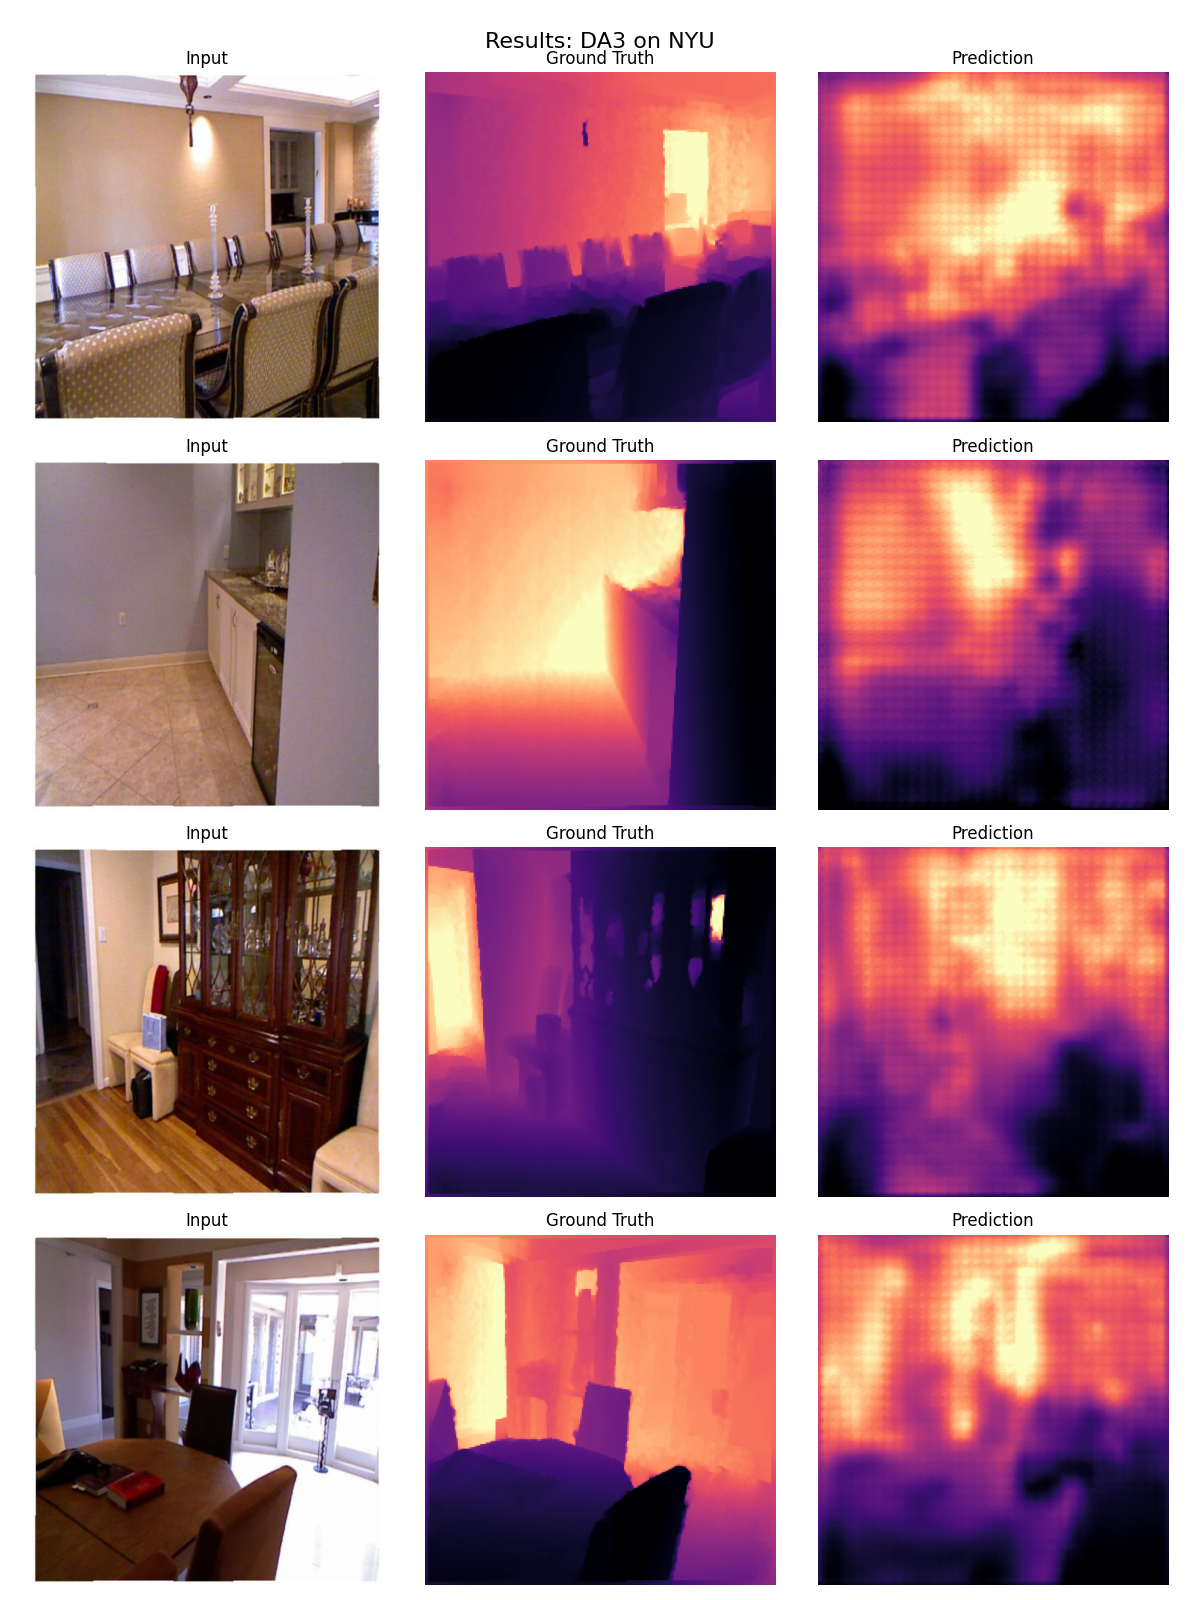
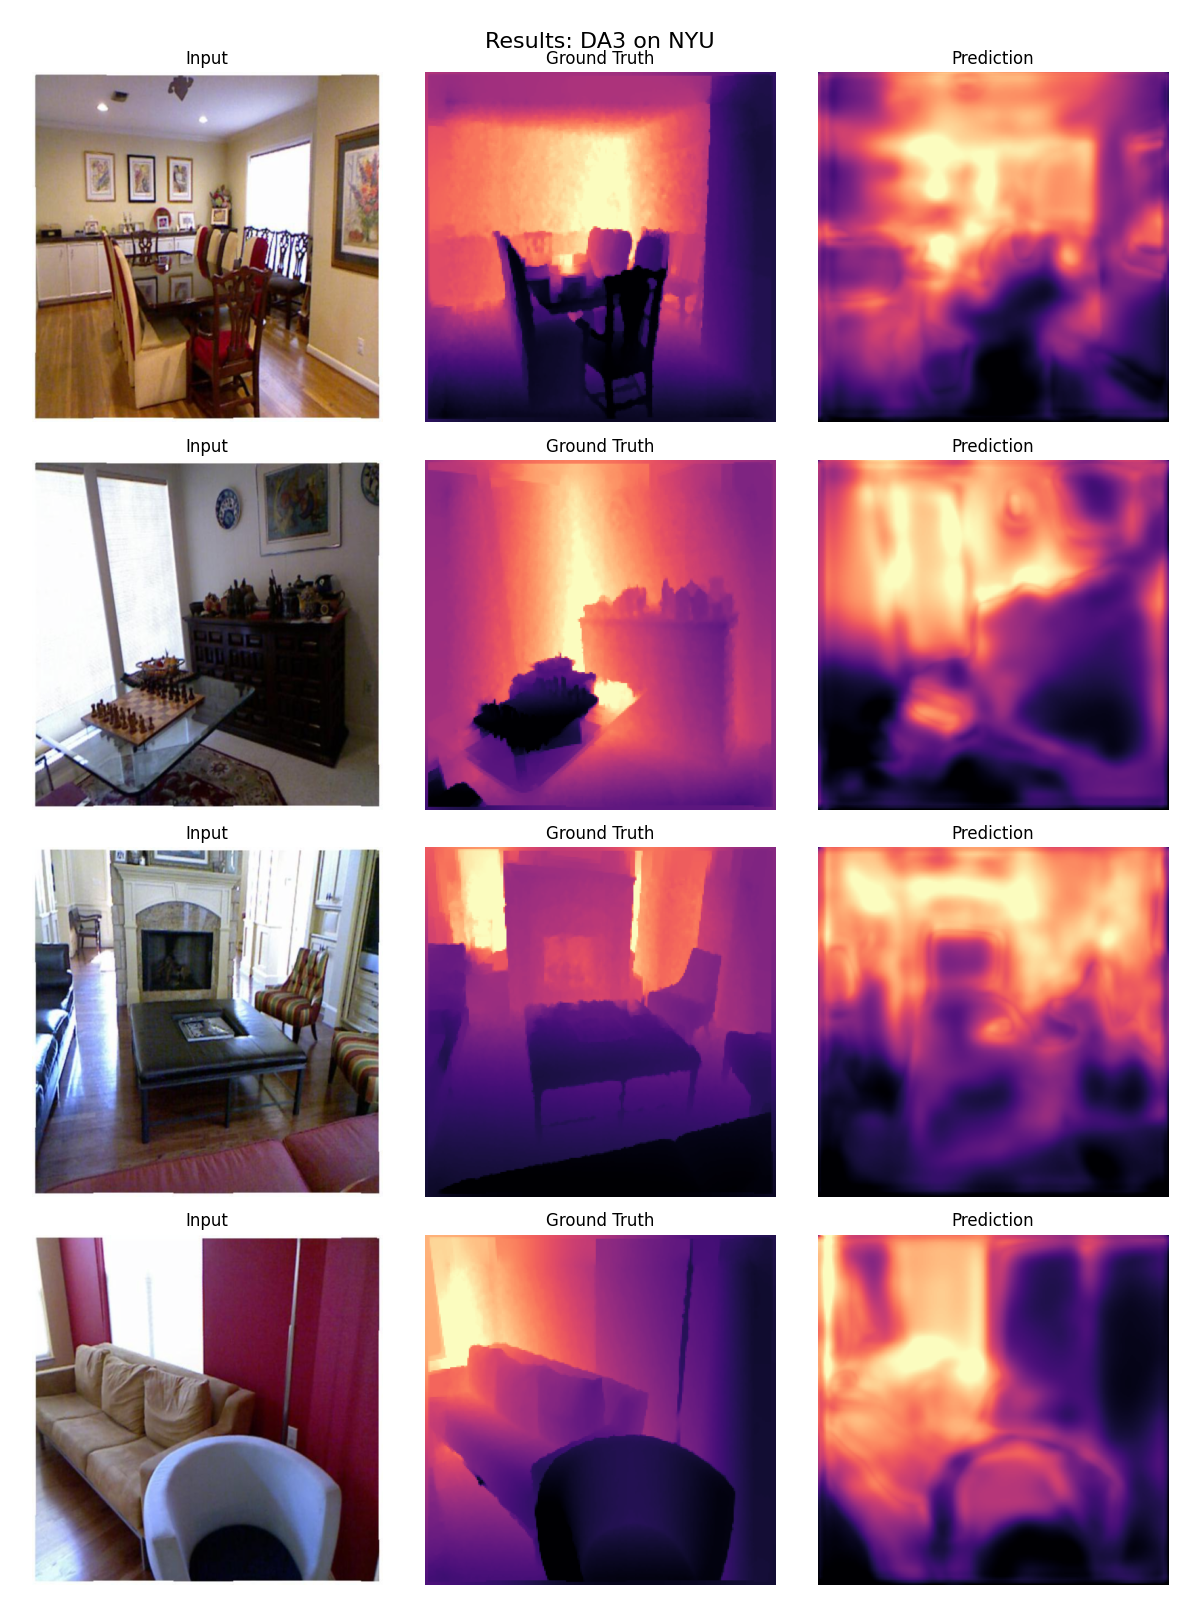
experiment

diff --git a/train_phase3.py b/train_phase3.py
@@ -5,6 +5,10 @@ from torchvision import transforms
 import torch.nn.functional as F
 import os
 import argparse
+import sys
+
+# Ensure we can find the modules
+sys.path.append(os.getcwd())
 
 from dataset_universal import UniversalDepthDataset
 from da3_adapter import DINOv3_DA3_Hybrid
@@ -12,7 +16,7 @@ from da3_adapter import DINOv3_DA3_Hybrid
 # --- Args ---
 parser = argparse.ArgumentParser()
 parser.add_argument('--dataset', type=str, required=True, choices=['nyu', 'eth3d'])
-parser.add_argument('--epochs', type=int, default=10)
+parser.add_argument('--epochs', type=int, default=30) # Default updated to 30
 parser.add_argument('--batch_size', type=int, default=4)
 parser.add_argument('--lr', type=float, default=5e-5)
 args = parser.parse_args()
@@ -22,9 +26,9 @@ SAVE_DIR = f'checkpoints_phase3_{args.dataset}'
 os.makedirs(SAVE_DIR, exist_ok=True)
 
 print(f"--- Starting Phase 3 (Hybrid) on {args.dataset.upper()} ---")
+print(f"--- Saving Mode: Minimal (Latest + Best only) ---")
 
 # --- CORRECT TRANSFORM (512x512) ---
-# 512 is divisible by Patch Size 16. 518 is NOT.
 da3_transform = transforms.Compose([
     transforms.Resize((512, 512)),
     transforms.ToTensor(),
@@ -35,8 +39,11 @@ train_loader = DataLoader(
     UniversalDepthDataset(args.dataset, 'train', transform=da3_transform),
     batch_size=args.batch_size, shuffle=True, num_workers=4
 )
+
+# Use a small subset for validation to save time
+val_dataset = UniversalDepthDataset(args.dataset, 'val', transform=da3_transform)
 val_loader = DataLoader(
-    UniversalDepthDataset(args.dataset, 'val', transform=da3_transform),
+    val_dataset,
     batch_size=args.batch_size, shuffle=False, num_workers=4
 )
 
@@ -53,6 +60,30 @@ def si_loss(pred, target):
     second_term = 0.5 * (torch.pow(torch.sum(di, dim=(1,2,3)), 2) / (n ** 2))
     return (first_term - second_term).mean()
 
+def validate(model, loader):
+    model.eval()
+    total_loss = 0.0
+    with torch.no_grad():
+        for batch in loader:
+            img = batch['image'].to(DEVICE)
+            depth = batch['depth'].to(DEVICE)
+
+            # Resize GT
+            depth = F.interpolate(depth, size=(512, 512), mode='bilinear', align_corners=False)
+            depth = torch.log(depth.clamp(min=1e-3))
+
+            pred = model(img)
+
+            # Align Pred
+            if pred.shape[-1] != 512:
+                pred = F.interpolate(pred, size=(512,512), mode='bilinear', align_corners=False)
+
+            loss = si_loss(pred, depth)
+            total_loss += loss.item()
+    return total_loss / len(loader)
+
+best_val_loss = float('inf')
+
 for epoch in range(args.epochs):
     model.train()
     running_loss = 0.0
@@ -63,6 +94,7 @@ for epoch in range(args.epochs):
 
         # Resize GT to 512
         depth = F.interpolate(depth, size=(512, 512), mode='bilinear', align_corners=False)
+        # Log Depth for SI Loss
         depth = torch.log(depth.clamp(min=1e-3))
 
         optimizer.zero_grad()
@@ -77,10 +109,25 @@ for epoch in range(args.epochs):
         optimizer.step()
         running_loss += loss.item()
 
-        if i % 10 == 0:
-            print(f"Epoch [{epoch+1}/{args.epochs}] Step [{i}/{len(train_loader)}] Loss: {loss.item():.4f}")
+        if i % 50 == 0:
+            print(f"Epoch [{epoch+1}/{args.epochs}] Step [{i}/{len(train_loader)}] Train Loss: {loss.item():.4f}")
 
-    print(f"Epoch {epoch+1} Finished. Avg Loss: {running_loss/len(train_loader):.4f}")
-    torch.save(model.state_dict(), f"{SAVE_DIR}/hybrid_epoch_{epoch+1}.pth")
+    avg_train_loss = running_loss/len(train_loader)
+
+    # Validation step
+    val_loss = validate(model, val_loader)
+    print(f"Epoch {epoch+1} Finished. Train Loss: {avg_train_loss:.4f} | Val Loss: {val_loss:.4f}")
+
+    # SAVE STRATEGY: Minimal Storage
+    # 1. Always save 'latest' (Overwrites previous epoch)
+    latest_path = f"{SAVE_DIR}/hybrid_latest.pth"
+    torch.save(model.state_dict(), latest_path)
+
+    # 2. Save 'best' only if it beats the record
+    if val_loss < best_val_loss:
+        best_val_loss = val_loss
+        best_path = f"{SAVE_DIR}/hybrid_best.pth"
+        torch.save(model.state_dict(), best_path)
+        print(f"  >>> New Best Model Saved! (Val Loss: {best_val_loss:.4f})")
 
 print("Phase 3 Complete.")

diff --git a/da3_adapter.py b/da3_adapter.py
@@ -14,10 +14,22 @@ class DPTHead(nn.Module):
             for in_channel in in_channels
         ])
 
+        # --- THE CHECKERBOARD FIX ---
+        # Replaced ConvTranspose with Bilinear Upsampling to force smoothness
         self.resize_layers = nn.ModuleList([
-            nn.ConvTranspose2d(features, features, kernel_size=4, stride=4, padding=0),
-            nn.ConvTranspose2d(features, features, kernel_size=2, stride=2, padding=0),
+            # Layer 4 (x4 Upsample)
+            nn.Sequential(
+                nn.Upsample(scale_factor=4, mode='bilinear', align_corners=False),
+                nn.Conv2d(features, features, kernel_size=3, padding=1, bias=False)
+            ),
+            # Layer 11 (x2 Upsample)
+            nn.Sequential(
+                nn.Upsample(scale_factor=2, mode='bilinear', align_corners=False),
+                nn.Conv2d(features, features, kernel_size=3, padding=1, bias=False)
+            ),
+            # Layer 17 (Identity)
             nn.Identity(),
+            # Layer 23 (Downsample)
             nn.MaxPool2d(kernel_size=2, stride=2)
         ])
 
@@ -39,9 +51,9 @@ class DPTHead(nn.Module):
 
     def forward(self, features):
         out = []
-        # --- FIX: USE LARGEST MAP AS TARGET SIZE ---
-        # We calculate the target resolution from the first (highest res) feature map
-        # This prevents crushing everything down to 32x32
+
+        # 1. Get Target Size from the largest map (Layer 4)
+        # This prevents the "Blob" issue by ensuring we target 128x128 resolution, not 32x32
         f0 = features[0]
         x0 = self.projects[0](f0)
         x0 = self.resize_layers[0](x0)
@@ -51,7 +63,7 @@ class DPTHead(nn.Module):
             x = self.projects[i](f)
             x = self.resize_layers[i](x)
 
-            # Interpolate everything to the largest size
+            # Force all maps to align to the largest size
             if x.shape[-2:] != (target_H, target_W):
                 x = F.interpolate(x, size=(target_H, target_W), mode='bilinear', align_corners=False)
             out.append(x)
@@ -77,7 +89,6 @@ class DINOv3_DA3_Hybrid(nn.Module):
 
         new_state_dict = {}
         for k, v in state_dict.items():
-            # Standard Shim Translations
             new_k = k.replace("module.", "").replace("backbone.", "")
             new_k = new_k.replace("embeddings.patch_embeddings", "patch_embed.proj")
             new_k = new_k.replace("embeddings.cls_token", "cls_token")
@@ -95,7 +106,7 @@ class DINOv3_DA3_Hybrid(nn.Module):
             if "mask_token" in new_k and v.ndim == 3: v = v.squeeze(1)
             new_state_dict[new_k] = v
 
-        # QKV FUSION (Defensive)
+        # FUSE QKV
         final_state_dict = {}
         fused_keys = set()
         for i in range(24):
@@ -118,22 +129,24 @@ class DINOv3_DA3_Hybrid(nn.Module):
         msg = self.backbone.load_state_dict(final_state_dict, strict=False)
         print(f"Backbone Loaded. Missing keys: {len(msg.missing_keys)}")
 
-        # Unfreeze Last Block
+        # --- UNFREEZE STRATEGY FOR 30 EPOCHS ---
+        # We unfreeze the last 3 blocks (21, 22, 23) to allow better adaptation
         for param in self.backbone.parameters():
             param.requires_grad = False
+
         for name, param in self.backbone.named_parameters():
-            if "blocks.23" in name or "norm" in name:
+            if any(x in name for x in ["blocks.21", "blocks.22", "blocks.23", "norm"]):
                 param.requires_grad = True
 
+        print("Model Configuration: Unfrozen Blocks 21, 22, 23 + Norms.")
         self.head = DPTHead(in_channels=[1024, 1024, 1024, 1024])
 
     def forward(self, x):
-        # --- THE GOLDEN FIX ---
-        # 1. Get ALL 24 layers
+        # 1. Get ALL layers
         all_feat = self.backbone.get_intermediate_layers(x, n=24, reshape=True)
 
-        # 2. Pick the "Golden Quartet" (Early, Mid, Mid, Late)
-        # Layer 4  = Edges (High Res info in the embedding)
+        # 2. Pick the "Golden Quartet"
+        # Layer 4  = Edges (High Res)
         # Layer 11 = Shapes
         # Layer 17 = Objects
         # Layer 23 = Context
